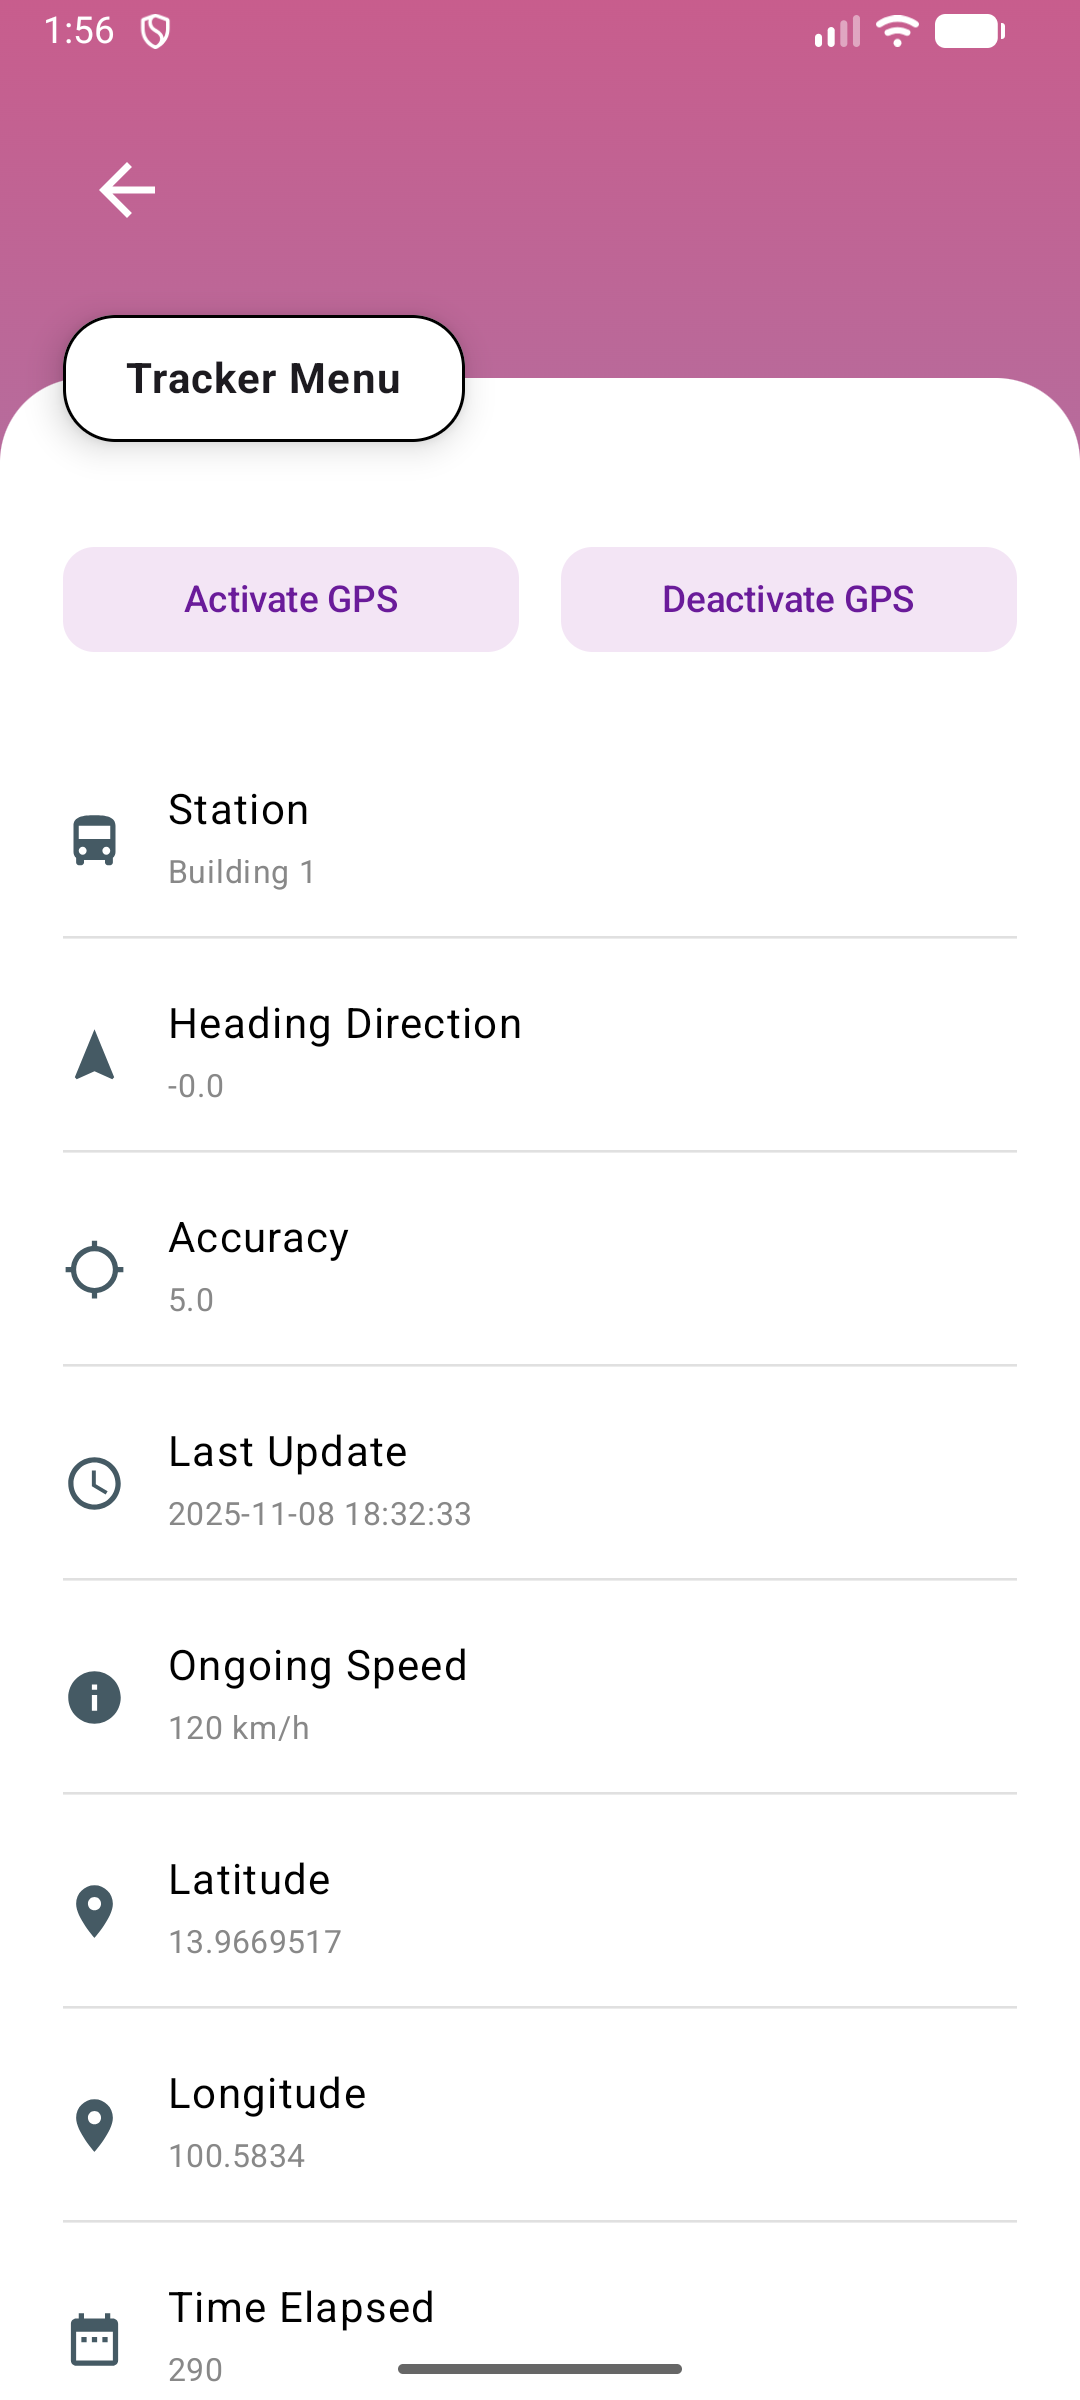
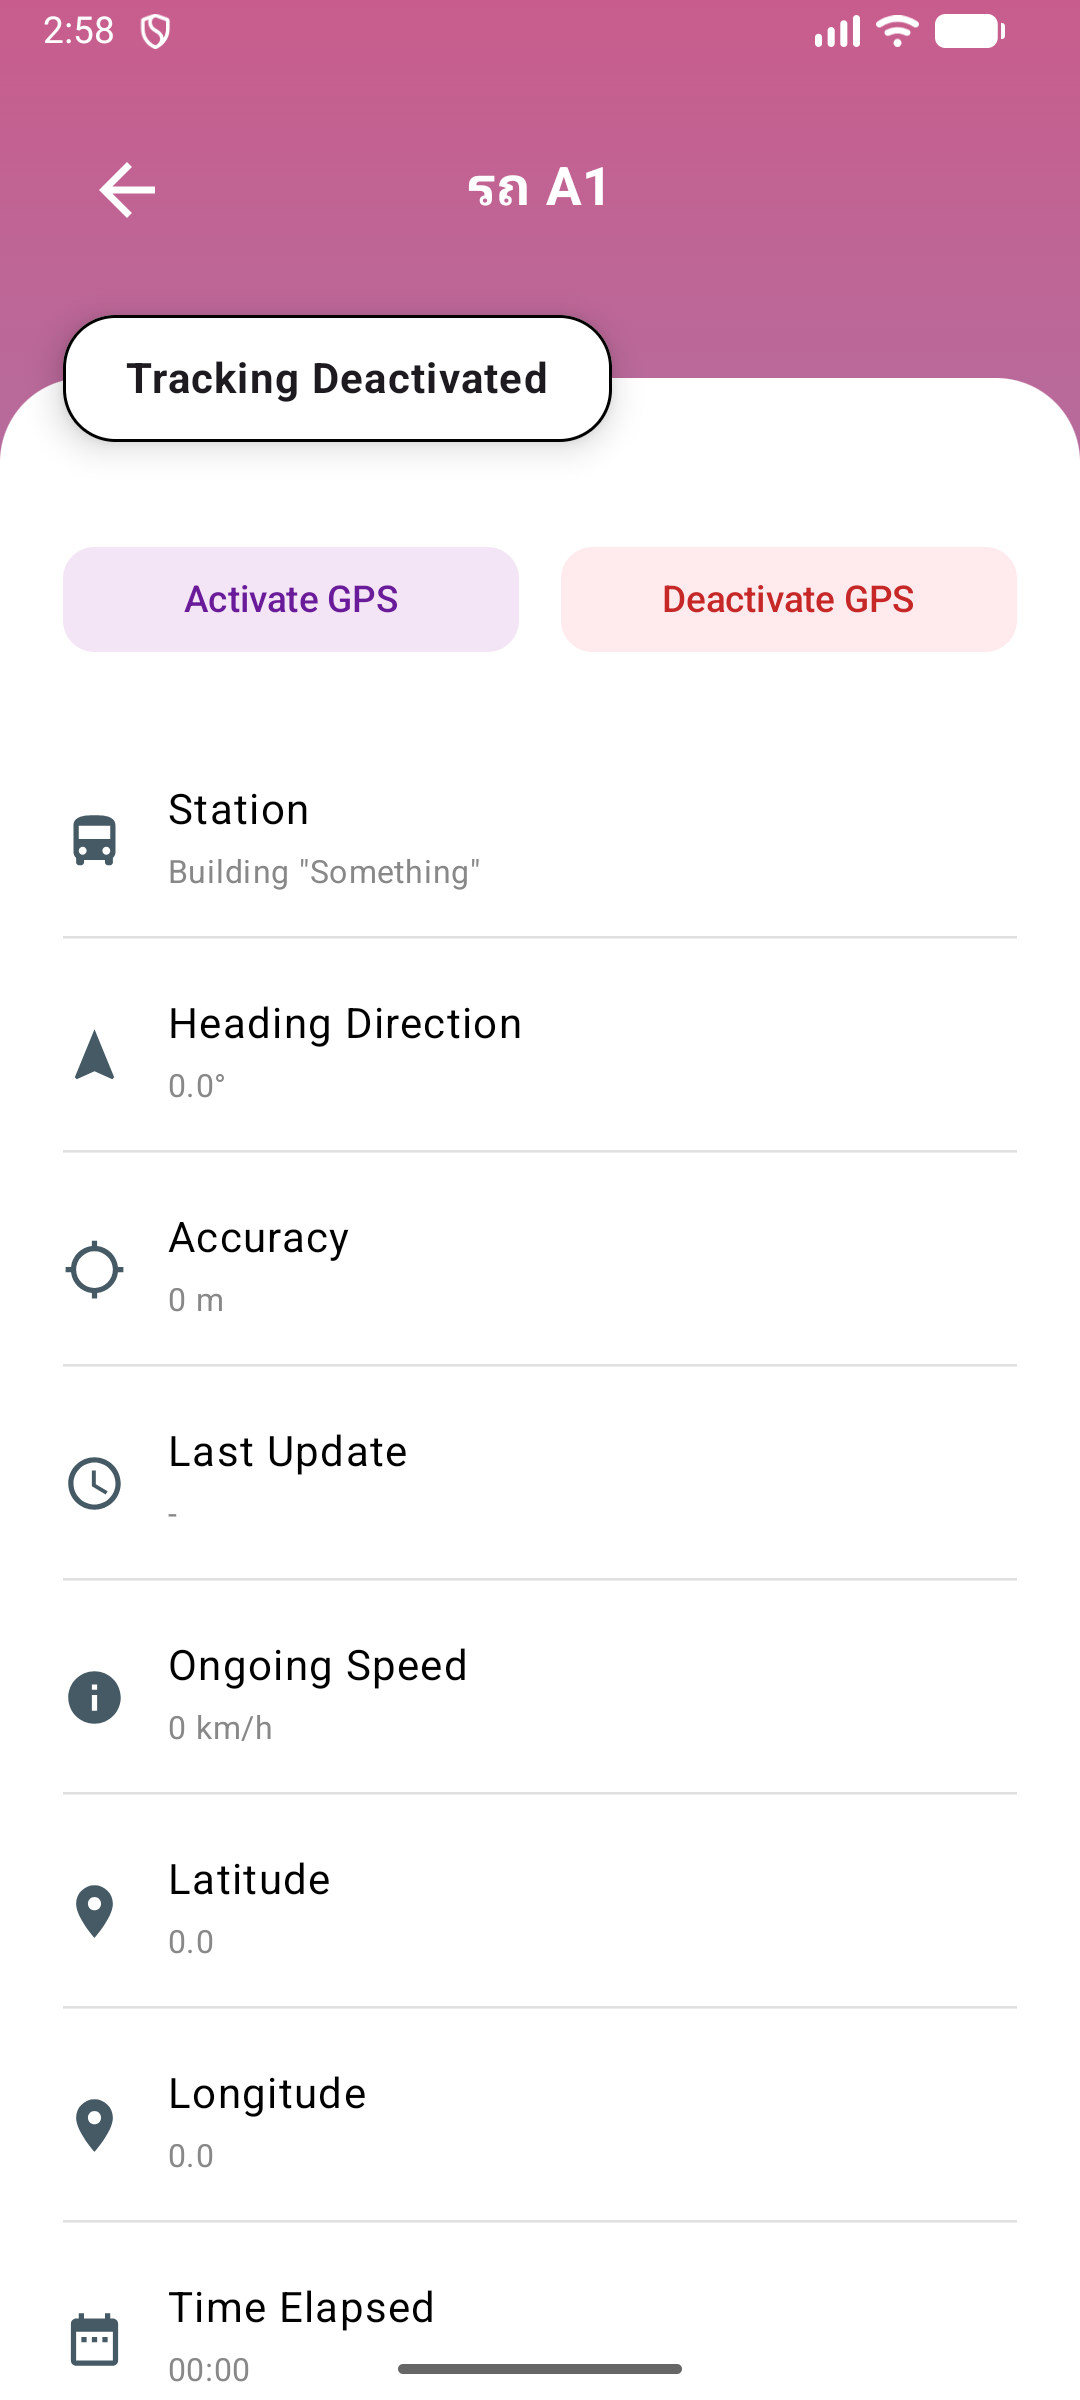
Change README.md Tracker UI picture

diff --git a/README.md b/README.md
@@ -128,7 +128,7 @@ erDiagram
 | Login Screen | Tracker Dashboard |
 | --- | --- |
 | <img src="docs/login_screen.png" width="300" /> | <img src="docs/tracker_screen.png" width="300" /> |
-| *Clean gradient UI with vehicle authentication* | *Real-time telemetry stats with slide animations* |
+| *Clean gradient UI with vehicle authentication* | *Real-time telemetry stats* |
 
 ---
 
